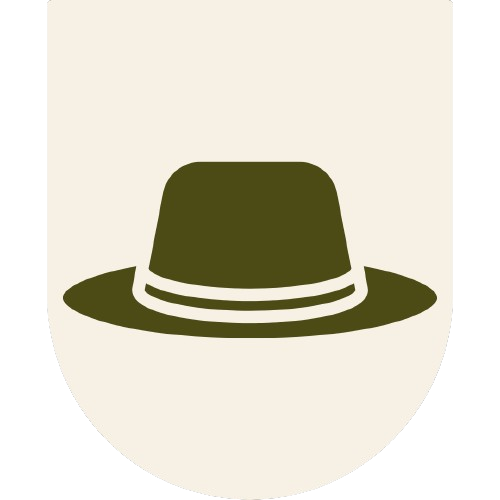
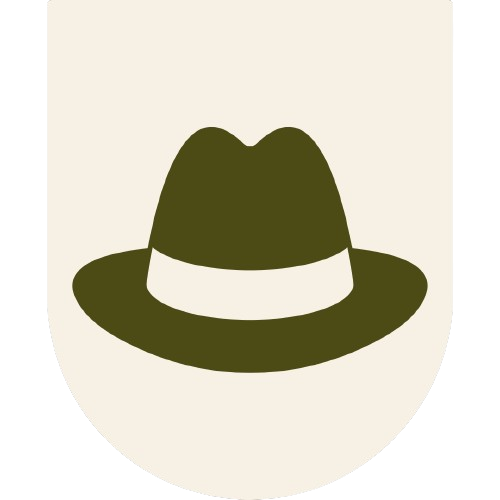
Hello Dude

Changed region(s): [[0.15, 0.36, 0.87, 0.75], [0.33, 0.24, 0.69, 0.45], [0.12, 0.57, 0.18, 0.63]]

diff --git a/site/frontend/src/love/dFunction/gBrand.js b/site/frontend/src/love/dFunction/gBrand.js
@@ -14,13 +14,18 @@ import techfolio from "@/love/hAsset/business/13.png";
 import apurvchatur from "@/love/hAsset/business/14.png";
 import anushreemandape from "@/love/hAsset/business/15.png";
 import sofieberkin from "@/love/hAsset/business/16.png";
+import blogify from "@/love/hAsset/business/17.png";
+import srimadbhagwatam from "@/love/hAsset/business/18.png";
+import bhagwadgita from "@/love/hAsset/business/19.png";
+import interviewquestion from "@/love/hAsset/business/20.png";
+import swifttalk from "@/love/hAsset/business/21.png";
 
 const brand = () => {
 	var brandObject
 
 		brandObject = {
-			logo: beehive,
-			name: "Beehive Corporation",
+			logo: swifttalk,
+			name: "Swift Talk",
 			app: "https://beehive-frontend.netlify.app/",
 			admin: "https://beehive-admin.netlify.app/"
 		}
